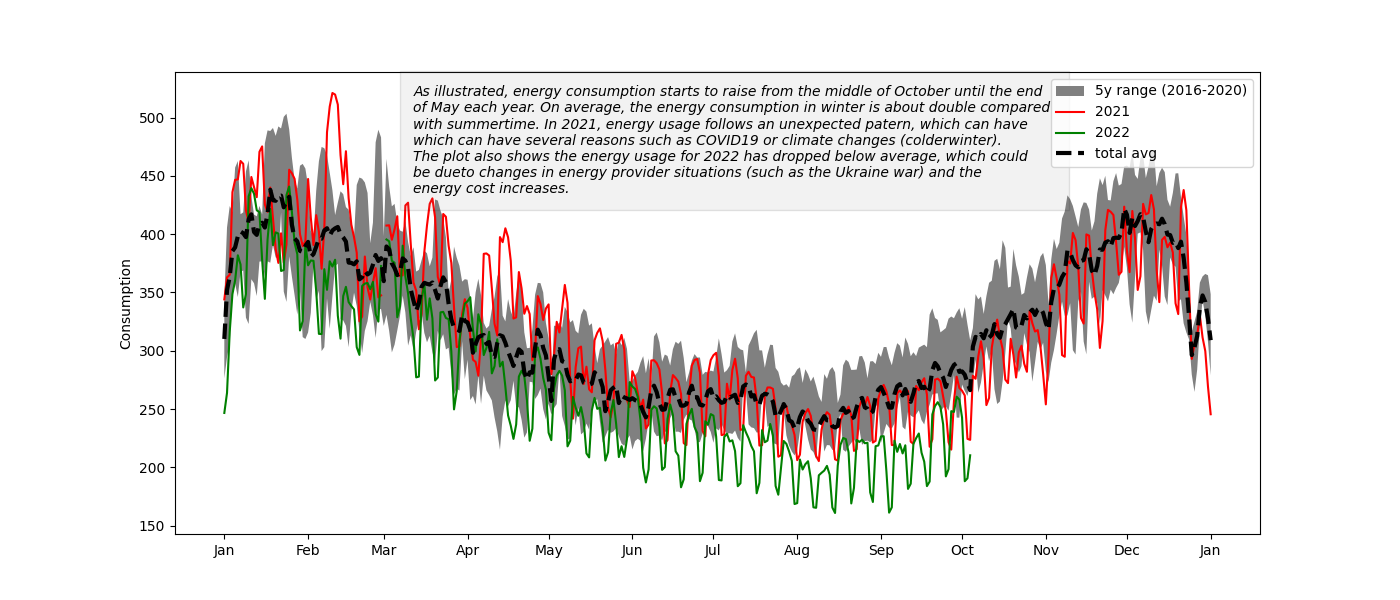
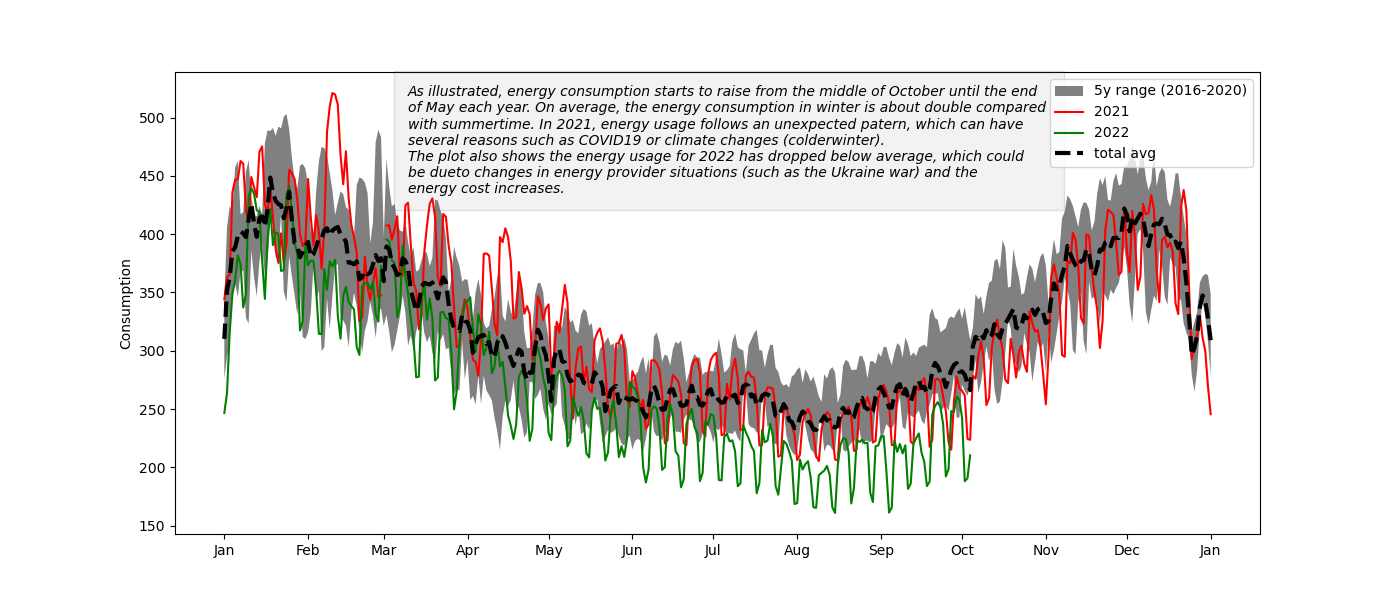
Updates datetime conversion method, and the comment in seasonal_plot

diff --git a/utils/consumption.py b/utils/consumption.py
@@ -7,9 +7,8 @@ warnings.filterwarnings("ignore")
 class ConsumptionData:
 
     '''
-    This Class will perform a pandas Dataframe create a Pandas DataFrame with to show 
-    the consumption of each year. It also creates a seasonal plot showing all 7-years 
-    of 2016-2022.
+    This Class will perform a Pandas DataFrame with to show the consumption of each year. 
+    It also creates a seasonal plot showing all 7-years of 2016-2022.
 
     __init__(self)
     load_data(self)
@@ -32,16 +31,10 @@ class ConsumptionData:
         '''
 
         df = pd.read_csv(self.path + "Consumption.csv")
-        df_good = df[df.Date.str.contains('(\d{2})[/](\d{2})[/](\d{4})')]
-        df_good['mm-dd'] = pd.to_datetime(df_good.Date, format='%d/%m/%Y')
-        df_not_good = df[~df.Date.str.contains('(\d{2})[/](\d{2})[/](\d{4})')]
-        df_not_good = df_not_good.drop(['Date'], axis=1)
-
-        index = pd.Index(range(1461,1827))
-        df_2020 = pd.DataFrame(pd.date_range(start='1/1/2020', end='31/12/2020'), columns=['mm-dd'], index=index)
-        df_2020_cleaned = pd.concat([df_2020,df_not_good], axis=1)
-        df_final = pd.concat([df_2020_cleaned,df_good], sort=False).sort_index()
-        return df_final
+        date_frmt1 = pd.to_datetime(df['Date'], errors='coerce', format='%d/%m/%Y')
+        date_frmt2 = pd.to_datetime(df['Date'], errors='coerce', format='%Y%m%d')
+        df['Date'] = date_frmt1.fillna(date_frmt2)
+        return df
 
     def group_by_year(self):
 
@@ -57,7 +50,8 @@ class ConsumptionData:
         '''
 
         df = self.load_data()
-        df['Year'] = df['mm-dd'].dt.year
+        df['Year'] = df['Date'].dt.year
+        df = df.rename(columns = {'Date':'mm-dd'})
         df_pvt = pd.pivot_table(df, index=df['mm-dd'].dt.strftime('%m-%d'), columns='Year', values='Consumption')
         df_pvt['avg_all'] = df_pvt.mean(axis=1)
         df_pvt['5y_min'] = df_pvt[[2016,2017,2018,2019,2020]].min(axis=1)
@@ -85,11 +79,11 @@ class ConsumptionData:
         comment = "As illustrated, energy consumption starts to raise from the middle of October until the end \n" \
                 "of May each year. On average, the energy consumption in winter is about double compared \n" \
                 "with summertime. In 2021, energy usage follows an unexpected patern, which can have \n" \
-                "which can have several reasons such as COVID19 or climate changes (colderwinter).\n" \
+                "several reasons such as COVID19 or climate changes (colderwinter).\n" \
                 "The plot also shows the energy usage for 2022 has dropped below average, which could \n" \
                 "be dueto changes in energy provider situations (such as the Ukraine war) and the \n" \
                 "energy cost increases."
-        ax.text(70, 435, comment, style='italic', bbox={
+        ax.text(68, 435, comment, style='italic', bbox={
         'facecolor': 'grey', 'alpha': 0.1, 'pad': 10})
         ax.legend(loc = 'best')
         plt.savefig('seasonal_plot.png')
@@ -98,7 +92,7 @@ class ConsumptionData:
     def main(self):
         
         data = self.group_by_year()
-        print(data.head())
+        print(data.head(1464))
         self.plot_seasonal()
 
 if __name__ == '__main__':
